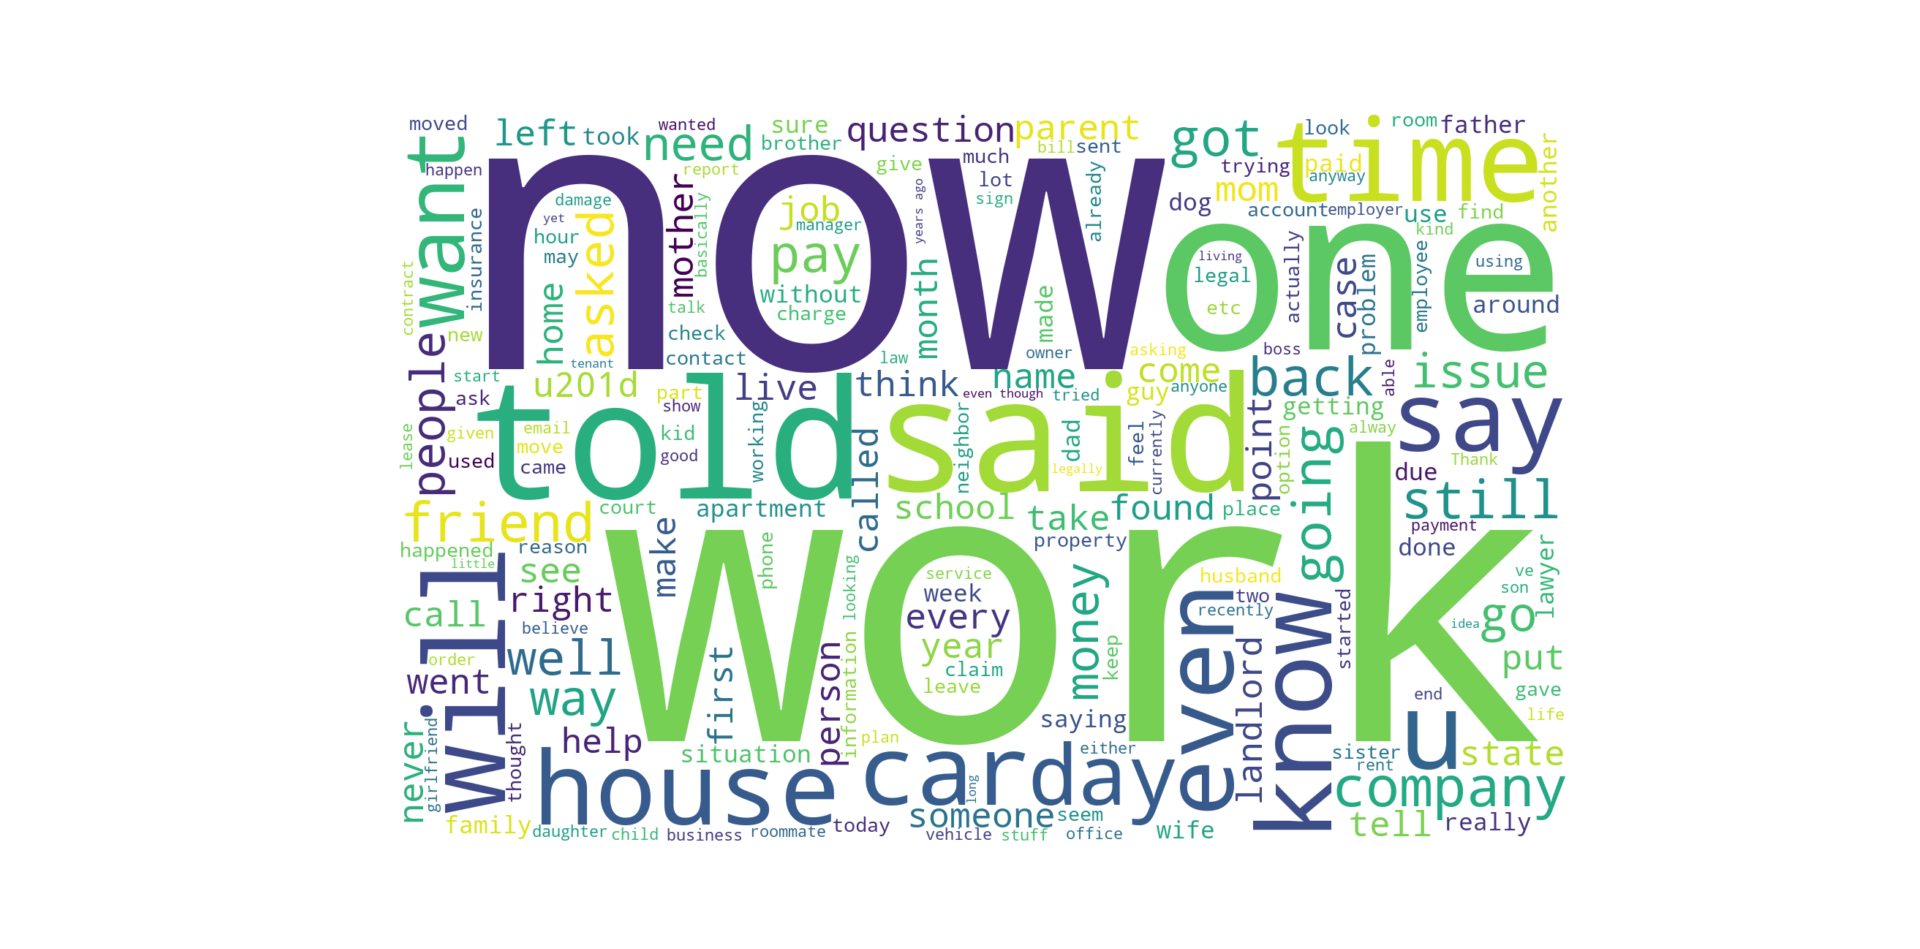
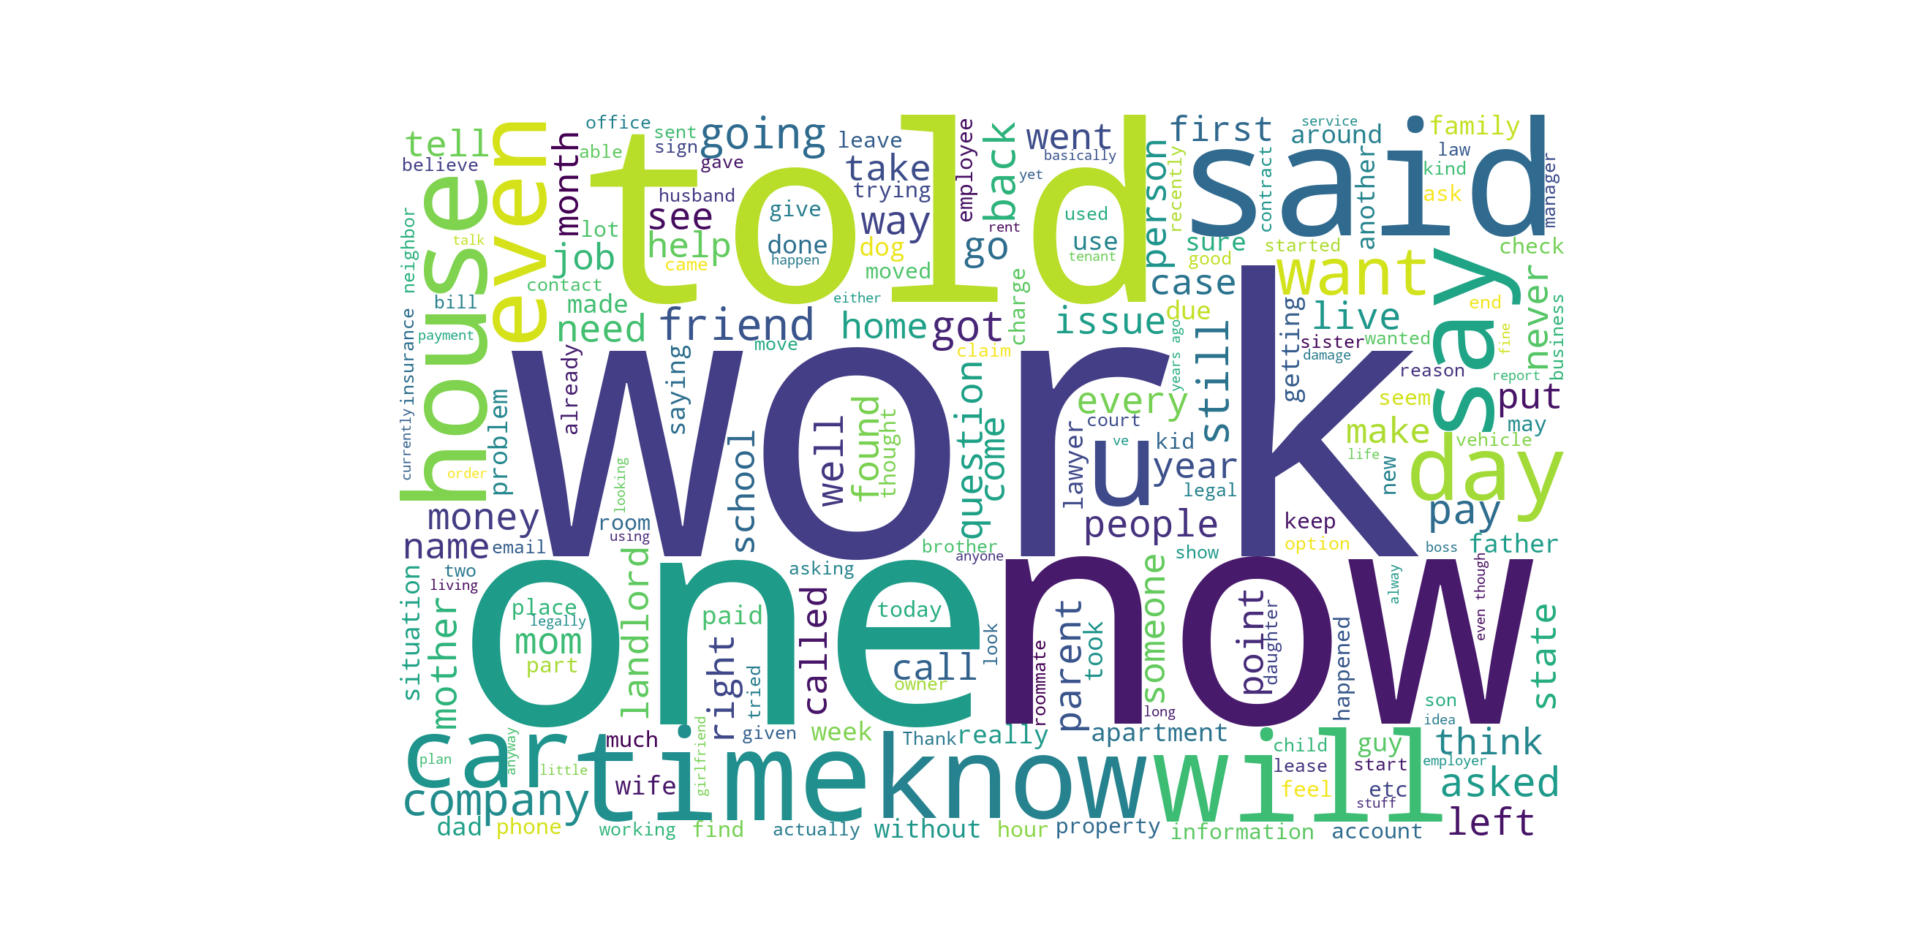
Update word clouds, add README

Changed region(s): [[0.1875, 0.1222, 0.8125, 0.8862]]

diff --git a/word_cloud.py b/word_cloud.py
@@ -32,7 +32,7 @@ if __name__ == '__main__':
     cloud_list = []
     for feature_list in feature_lists:
         all_text = ' '.join(feature_list)
-        all_text = all_text.replace('u2019', '').replace('thing', '').replace('x200B', '')
+        all_text = all_text.replace('u2019', '').replace('thing', '').replace('x200B', '').replace('u201d', '')
         cloud = wordcloud.WordCloud(
                         background_color='white',
                         height=1000,

diff --git a/README.md b/README.md
@@ -1,0 +1,19 @@
+AUTHOR: Paul Galatic pdg6505@rit.edu
+
+# Subreddit Analysis
+
+In order to run any of the classifiers, use this style of command:
+
+```
+python [classifier] [train|dev|test]
+```
+
+* Train creates the model, if it doesn't already exist.
+* Dev evaluates the model with dev data.
+* Test evaluates the model with test data.
+
+In order to create word clouds, use the command:
+
+```
+python word_cloud.py
+```
